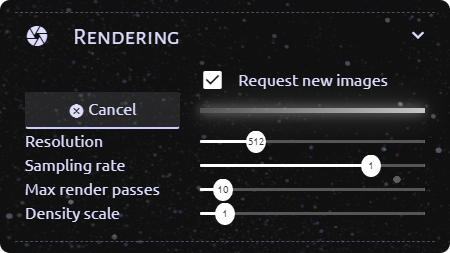
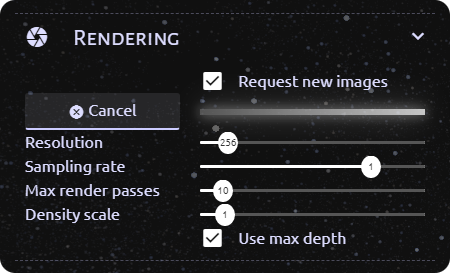
:tada: Allow toggling usage of the max depth buffer

diff --git a/gui/volume_rendering_tab.html b/gui/volume_rendering_tab.html
@@ -122,6 +122,14 @@
           </div>
         </div>
       </div>
+
+      <div class="col-7 offset-5">
+        <label class="checklabel">
+          <input type="checkbox" data-callback="volumeRendering.setUseMaxDepth" />
+          <i class="material-icons"></i>
+          <span>Use max depth</span>
+        </label>
+      </div>
     </div>
   </div>
 

diff --git a/src/Render/OSPRayRenderer.cpp b/src/Render/OSPRayRenderer.cpp
@@ -83,8 +83,8 @@ void OSPRayRenderer::cancelRendering() {
 ////////////////////////////////////////////////////////////////////////////////////////////////////
 
 std::unique_ptr<Renderer::RenderedImage> OSPRayRenderer::getFrameImpl(
-    glm::mat4 const& cameraTransform, std::vector<float>&& maxDepth, Parameters parameters,
-    DataManager::State const& dataState) {
+    glm::mat4 const& cameraTransform, std::optional<std::vector<float>>&& maxDepth,
+    Parameters parameters, DataManager::State const& dataState) {
   // Shift filter attribute indices by one, because the scalar list used by the renderer is shifted
   // by one so that the active scalar can be placed at index 0.
   for (ScalarFilter& filter : parameters.mScalarFilters) {
@@ -429,23 +429,28 @@ OSPRayRenderer::Camera OSPRayRenderer::getCamera(float volumeHeight, glm::mat4 o
 ////////////////////////////////////////////////////////////////////////////////////////////////////
 
 void OSPRayRenderer::renderFrame(ospray::cpp::World const& world, ospray::cpp::Camera const& camera,
-    std::vector<float>&& maxDepth, Parameters const& parameters, bool resetAccumulation) {
-  ospray::cpp::Texture maxDepthTex("texture2d");
-  maxDepthTex.setParam("format", OSP_TEXTURE_R32F);
-  maxDepthTex.setParam(
-      "data", ospray::cpp::SharedData(maxDepth.data(), OSP_FLOAT,
-                  rkcommon::math::vec2i(parameters.mResolution, parameters.mResolution)));
-  maxDepthTex.commit();
-
+    std::optional<std::vector<float>>&& maxDepth, Parameters const& parameters,
+    bool resetAccumulation) {
   ospray::cpp::Renderer renderer("volume_depth");
+
+  if (maxDepth.has_value()) {
+    ospray::cpp::Texture maxDepthTex("texture2d");
+    maxDepthTex.setParam("format", OSP_TEXTURE_R32F);
+    maxDepthTex.setParam(
+        "data", ospray::cpp::SharedData(maxDepth.value().data(), OSP_FLOAT,
+                    rkcommon::math::vec2i(parameters.mResolution, parameters.mResolution)));
+    maxDepthTex.commit();
+
+    renderer.setParam("map_maxDepth", maxDepthTex);
+  }
+
+  const void* filtersPtr = parameters.mScalarFilters.data();
+  renderer.setParam("scalarFilters", OSP_VOID_PTR, &filtersPtr);
   renderer.setParam("aoSamples", 0);
   renderer.setParam("shadows", false);
   renderer.setParam("volumeSamplingRate", parameters.mSamplingRate);
   renderer.setParam("depthMode", (int)parameters.mWorld.mDepthMode);
-  const void* filtersPtr = parameters.mScalarFilters.data();
-  renderer.setParam("scalarFilters", OSP_VOID_PTR, &filtersPtr);
   renderer.setParam("numScalarFilters", (int)parameters.mScalarFilters.size());
-  renderer.setParam("map_maxDepth", maxDepthTex);
   renderer.commit();
 
   if (resetAccumulation) {

diff --git a/src/Plugin.cpp b/src/Plugin.cpp
@@ -406,6 +406,9 @@ Plugin::Setting<bool>::getSettings(Settings& pluginSettings) {
       // Rendering settings
       Setting<bool>{"setEnableRequestImages", "If disabled no new images will be rendered.",
           pluginSettings.mRendering.mRequestImages},
+      Setting<bool>{"setUseMaxDepth",
+          "If enabled, rendering will use CosmoScout's depth buffer as the maximum depth.",
+          pluginSettings.mRendering.mUseMaxDepth, {}, &Plugin::setUseMaxDepth},
       Setting<bool>{"setEnableDenoiseColor", "Enables use of OIDN for displaying color data.",
           pluginSettings.mRendering.mDenoiseColor, &Renderer::setDenoiseColor},
       Setting<bool>{"setEnableDenoiseDepth", "Enables use of OIDN for displaying depth data.",
@@ -564,6 +567,12 @@ void csp::volumerendering::Plugin::setResolution(int value) {
 
 ////////////////////////////////////////////////////////////////////////////////////////////////////
 
+void Plugin::setUseMaxDepth(bool value) {
+  mDepthExtractor->setEnabled(value);
+}
+
+////////////////////////////////////////////////////////////////////////////////////////////////////
+
 void csp::volumerendering::Plugin::setDepthData(bool value) {
   for (auto const& node : mDisplayNodes) {
     node.second->setUseDepth(value);
@@ -615,18 +624,19 @@ bool Plugin::tryRequestFrame() {
   if (mActiveDisplay->pVisible.get()) {
     cs::utils::FrameTimings::ScopedTimer timer("Request frame");
 
-    auto depthBuffer =
-        mDepthExtractor->getDepthBuffer(mPluginSettings.mRendering.mResolution.get());
-    if (!depthBuffer.has_value()) {
-      return false;
+    std::optional<std::vector<float>> depthBuffer;
+    if (mPluginSettings.mRendering.mUseMaxDepth.get()) {
+      depthBuffer = mDepthExtractor->getDepthBuffer(mPluginSettings.mRendering.mResolution.get());
+      if (!depthBuffer.has_value()) {
+        return false;
+      }
     }
 
     mRenderingFrame = mNextFrame;
     glm::vec4 dir = glm::vec4(mSolarSystem->getSunDirection(mActiveDisplay->getWorldPosition()), 1);
     dir           = dir * glm::inverse(mRenderingFrame.mCameraTransform);
     mRenderer->setSunDirection(dir);
-    mFutureFrameData =
-        mRenderer->getFrame(mRenderingFrame.mCameraTransform, std::move(depthBuffer.value()));
+    mFutureFrameData   = mRenderer->getFrame(mRenderingFrame.mCameraTransform, std::move(depthBuffer));
     mLastFrameInterval = 0;
     mParametersDirty   = false;
     mFrameInvalid      = false;

diff --git a/src/Settings.cpp b/src/Settings.cpp
@@ -104,6 +104,7 @@ void from_json(nlohmann::json const& j, Settings::Rendering& o) {
   cs::core::Settings::deserialize(j, "samplingRate", o.mSamplingRate);
   cs::core::Settings::deserialize(j, "maxPasses", o.mMaxPasses);
   cs::core::Settings::deserialize(j, "densityScale", o.mDensityScale);
+  cs::core::Settings::deserialize(j, "useMaxDepth", o.mUseMaxDepth);
   cs::core::Settings::deserialize(j, "denoiseColor", o.mDenoiseColor);
   cs::core::Settings::deserialize(j, "denoiseDepth", o.mDenoiseDepth);
   cs::core::Settings::deserialize(j, "depthMode", o.mDepthMode);
@@ -116,6 +117,7 @@ void to_json(nlohmann::json& j, Settings::Rendering const& o) {
   cs::core::Settings::serialize(j, "samplingRate", o.mSamplingRate);
   cs::core::Settings::serialize(j, "maxPasses", o.mMaxPasses);
   cs::core::Settings::serialize(j, "densityScale", o.mDensityScale);
+  cs::core::Settings::serialize(j, "useMaxDepth", o.mUseMaxDepth);
   cs::core::Settings::serialize(j, "denoiseColor", o.mDenoiseColor);
   cs::core::Settings::serialize(j, "denoiseDepth", o.mDenoiseDepth);
   cs::core::Settings::serialize(j, "depthMode", o.mDepthMode);

diff --git a/src/Render/OSPRayRenderer.hpp b/src/Render/OSPRayRenderer.hpp
@@ -126,7 +126,7 @@ class OSPRayRenderer : public Renderer {
   std::mutex                         mRenderFutureMutex;
 
   std::unique_ptr<Renderer::RenderedImage> getFrameImpl(glm::mat4 const& cameraTransform,
-      std::vector<float>&& maxDepth, Parameters parameters,
+      std::optional<std::vector<float>>&& maxDepth, Parameters parameters,
       DataManager::State const& dataState) override;
 
   const Volume& getVolume(DataManager::State const& state, std::optional<int> const& maxLod);
@@ -138,7 +138,8 @@ class OSPRayRenderer : public Renderer {
       Volume const& volume, Parameters const& parameters, DataManager::State const& dataState);
   OSPRayRenderer::Camera getCamera(float volumeHeight, glm::mat4 observerTransform);
   void renderFrame(ospray::cpp::World const& world, ospray::cpp::Camera const& camera,
-      std::vector<float>&& maxDepth, Parameters const& parameters, bool resetAccumulation);
+      std::optional<std::vector<float>>&& maxDepth, Parameters const& parameters,
+      bool resetAccumulation);
 };
 
 } // namespace csp::volumerendering

diff --git a/src/Render/Renderer.hpp b/src/Render/Renderer.hpp
@@ -152,7 +152,7 @@ class Renderer {
   /// and will not be influenced by any later changes to the parameters.
   /// Returns a future that will eventually contain the rendered image.
   std::future<std::unique_ptr<Renderer::RenderedImage>> getFrame(
-      glm::mat4 const& cameraTransform, std::vector<float>&& maxDepth);
+      glm::mat4 const& cameraTransform, std::optional<std::vector<float>>&& maxDepth);
   /// Returns the current progress of the rendering processon the range [0,1].
   /// Returns 1 if no image is currently being rendered.
   virtual float getProgress() = 0;
@@ -252,7 +252,7 @@ class Renderer {
   const VolumeShape     mShape;
 
   virtual std::unique_ptr<RenderedImage> getFrameImpl(glm::mat4 const& cameraTransform,
-      std::vector<float>&& maxDepth, Parameters parameters,
+      std::optional<std::vector<float>>&& maxDepth, Parameters parameters,
       DataManager::State const& dataState) = 0;
 
  private:

diff --git a/src/Render/Renderer.cpp b/src/Render/Renderer.cpp
@@ -182,7 +182,7 @@ void Renderer::setPathlineScalarFilters(std::vector<ScalarFilter> const& value) 
 ////////////////////////////////////////////////////////////////////////////////////////////////////
 
 std::future<std::unique_ptr<Renderer::RenderedImage>> Renderer::getFrame(
-    glm::mat4 const& cameraTransform, std::vector<float>&& maxDepth) {
+    glm::mat4 const& cameraTransform, std::optional<std::vector<float>>&& maxDepth) {
   std::scoped_lock lock(mParameterMutex);
   return std::async(std::launch::async, &Renderer::getFrameImpl, this, cameraTransform,
       std::move(maxDepth), mParameters, mDataManager->getState());

diff --git a/src/Plugin.hpp b/src/Plugin.hpp
@@ -63,7 +63,7 @@ struct get_ui_type<float> {
 template <typename T>
 constexpr int SETTINGS_COUNT = 0;
 template <>
-inline constexpr int SETTINGS_COUNT<bool> = 11;
+inline constexpr int SETTINGS_COUNT<bool> = 12;
 template <>
 inline constexpr int SETTINGS_COUNT<int> = 2;
 template <>
@@ -256,6 +256,7 @@ class Plugin : public cs::core::PluginBase {
   };
 
   void setResolution(int value);
+  void setUseMaxDepth(bool value);
   void setDepthData(bool value);
   void setDrawDepth(bool value);
   void setScalar(std::string const& value);

diff --git a/src/Settings.hpp b/src/Settings.hpp
@@ -49,6 +49,7 @@ struct Settings {
     cs::utils::DefaultProperty<float>       mSamplingRate{0.05f};
     cs::utils::DefaultProperty<int>         mMaxPasses{10};
     cs::utils::DefaultProperty<float>       mDensityScale{1.f};
+    cs::utils::DefaultProperty<bool>        mUseMaxDepth{true};
     cs::utils::DefaultProperty<bool>        mDenoiseColor{true};
     cs::utils::DefaultProperty<bool>        mDenoiseDepth{true};
     cs::utils::DefaultProperty<DepthMode>   mDepthMode{DepthMode::eNone};

diff --git a/README.md b/README.md
@@ -128,6 +128,7 @@ These settings can also be dynamically changed in the CosmoScout UI.
 | *samplingRate* | float | `0.05` | Sampling rate to be used while rendering. Higher values result in higher quality images with less noise. |
 | *maxPasses* | int | `10` | Maximum number of additional render passes for progressive rendering. |
 | *densityScale* | float | `1` | Sets the density of the volume. |
+| *useMaxDepth* | bool | `true` | Use the depth buffer from CosmoScout's rendering pipeline as the maximum depth when rendering the volume. |
 | *denoiseColor* | bool | `true` | Use the OIDN library to denoise the color image of the volume before displaying it in CosmoScout. |
 | *denoiseDepth* | bool | `true` | Use the OIDN library to denoise the image containing depth information of the volume before using it for image based rendering. |
 | *depthMode* | `"none"` / `"isosurface"` / `"firstHit"` / `"lastHit"` / `"threshold"` / `"multiThreshold"` | `"none"` | Heuristic for determining per pixel depth values for the rendered images. |
@@ -238,7 +239,7 @@ The animation can be started and paused using the button at the bottom of the se
 
 ### Rendering
 
-The rendering section contains sliders for setting the rendering parameters resolution, sampling rate, maximume amount of render passes and density scale, that can also be set using properties in the settings.json file.
+The rendering section contains sliders and checkboxes for setting the rendering parameters resolution, sampling rate, maximum amount of render passes, density scale and usage of max depth, that can also be set using properties in the settings.json file.
 Information on these settings can be found under [Configuration - Rendering settings](#rendering-settings).
 
 The progressive rendering enabled by setting "Max Passes" to a value greater than `1` will run additional render passes to produce better quality images, as long as no parameters (such as camera perspective or most of the settings configurable in the UI) change.
